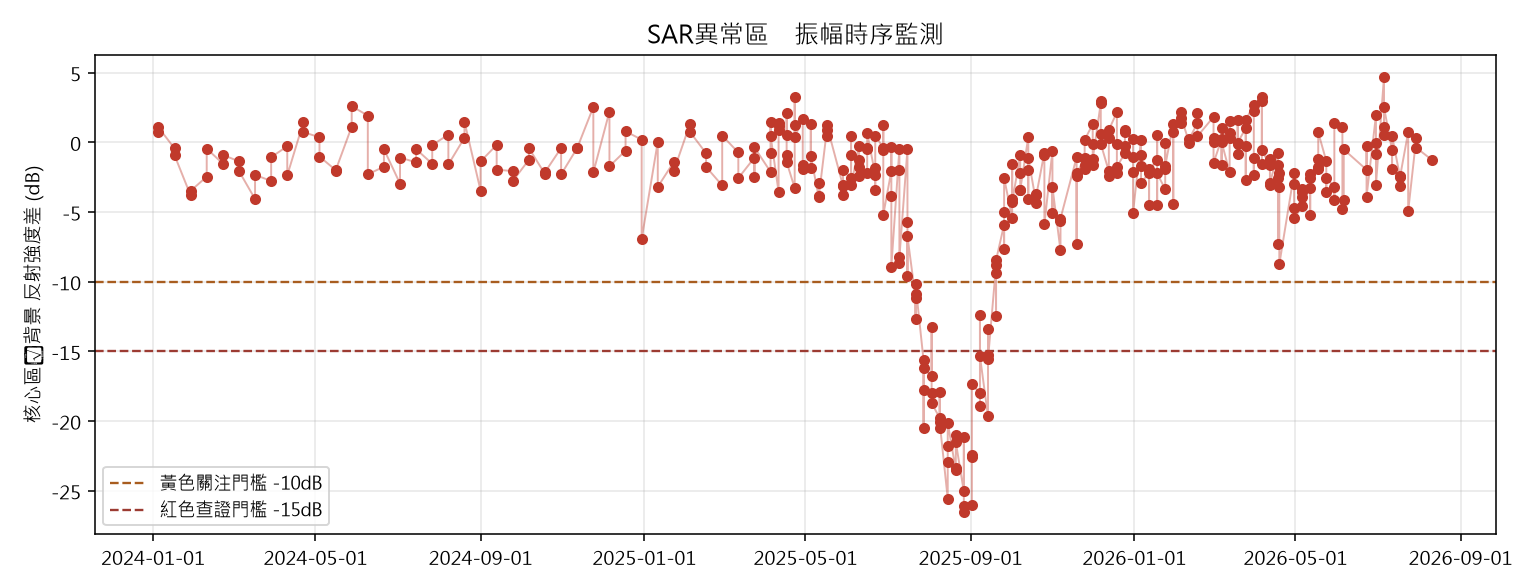
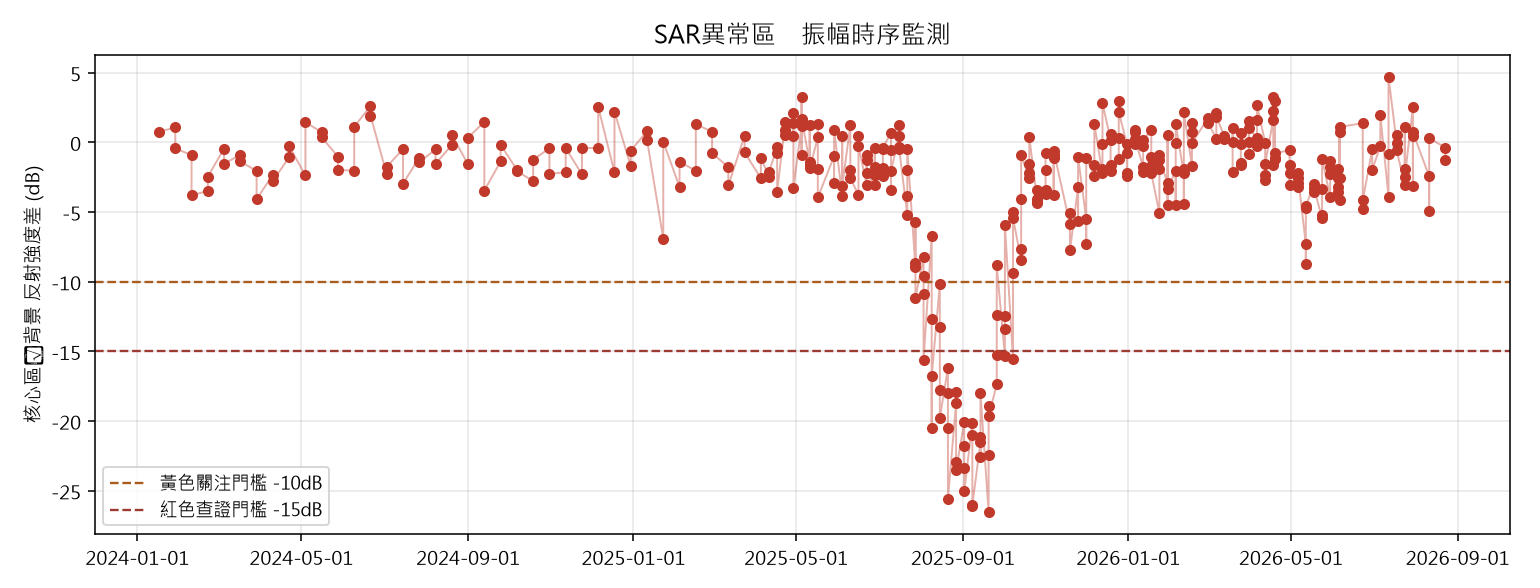
feat: add SAR freshness monitoring

diff --git a/docs/app.js b/docs/app.js
@@ -1693,6 +1693,7 @@ function renderMonitor() {
   const cardsEl = document.querySelector("#monitorCards");
   const chartsEl = document.querySelector("#monitorCharts");
   const updatedEl = document.querySelector("#monitorUpdated");
+  const freshnessEl = document.querySelector("#monitorFreshness");
   if (!cardsEl || !chartsEl) return;
   initMonitorLocalPanel();
   fetch("./monitor_status.json", { cache: "no-store" })
@@ -1703,8 +1704,26 @@ function renderMonitor() {
     .then((data) => {
       monitorPublishedPoints = data.points || [];
       monitorThresholds = data.thresholds || null;
-      if (updatedEl) updatedEl.textContent = `資料更新時間：${data.updated}（本機監測程式產生，非即時運算）`;
+      if (updatedEl) updatedEl.textContent = `程式處理時間：${data.processed_at || data.updated}`;
       updatedEl && updatedEl.classList.add("monitor-updated");
+      const freshness = data.freshness || {};
+      const ingest = data.ingest || {};
+      if (freshnessEl) {
+        const freshnessClass = ["current", "stale", "warning", "no_data"].includes(freshness.status)
+          ? freshness.status : "unknown";
+        const pairLine = freshness.latest_pair ? `最後配對：${freshness.latest_pair}` : "最後配對：無資料";
+        const acquisitionLine = freshness.latest_acquisition
+          ? `最後觀測：${freshness.latest_acquisition}（距今 ${freshness.latency_days} 天）`
+          : "最後觀測：無資料";
+        const ingestLine = ingest.message ? `<small>影像取得：${ingest.message}</small>` : "";
+        freshnessEl.className = `monitor-freshness ${freshnessClass}`;
+        freshnessEl.innerHTML = `
+          <div><span class="monitor-freshness-dot" aria-hidden="true"></span><strong>${freshness.label || "資料狀態未知"}</strong></div>
+          <p>${acquisitionLine}　｜　${pairLine}</p>
+          <p>${freshness.message || "尚未取得資料新鮮度資訊。"}</p>
+          ${ingestLine}
+        `;
+      }
       cardsEl.innerHTML = data.points.map((p) => `
         <div class="card">
           <strong>${p.name}</strong>
@@ -1777,7 +1796,7 @@ function initMonitorLocalPanel() {
   if (runBtn && !runBtn.dataset.bound) {
     runBtn.dataset.bound = "1";
     runBtn.addEventListener("click", () => {
-      callMonitorLocalApi("/run", "執行中，重新掃描新配對並更新趨勢圖，可能要一點時間...").then((data) => {
+      callMonitorLocalApi("/run", "正在搜尋新影像、接續HyP3工作並更新趨勢圖...").then((data) => {
         if (data && data.ok) renderMonitor();
       });
     });

diff --git a/docs/index.html b/docs/index.html
@@ -432,13 +432,14 @@
           </div>
           <span id="monitorUpdated" class="monitor-updated"></span>
         </div>
+        <div id="monitorFreshness" class="monitor-freshness" role="status" aria-live="polite"></div>
         <div id="monitorLocalPanel" class="toolbar-card monitor-local-panel" hidden>
           <div>
             <h3>本機分析（僅限本機開啟時可用）</h3>
-            <p>偵測到你是用 localhost 開啟這頁，可以直接觸發本機的 <code>sar_monitor.py</code> 重新分析，不用等每天08:00排程。「推送到GitHub」會讓公開網站同步更新，請先確認結果沒問題再按。</p>
+            <p>偵測到你是用 localhost 開啟這頁，可以立即搜尋最新Sentinel-1、接續HyP3工作並更新分析，不用等每天08:00排程。雲端處理若尚未完成，下次執行會自動接續，不會重複送件。</p>
           </div>
           <div class="monitor-local-actions">
-            <button id="monitorRunBtn" type="button">立即重新分析</button>
+            <button id="monitorRunBtn" type="button">檢查新影像並更新分析</button>
             <button id="monitorPushBtn" type="button" class="outline">推送到GitHub（公開網站更新）</button>
           </div>
           <pre id="monitorLocalLog" class="monitor-local-log"></pre>
@@ -492,7 +493,7 @@
         <div class="toolbar-card">
           <div>
             <h3>使用限制</h3>
-            <p>門檻只由馬太鞍溪這一個事件率定，尚未在其他案例驗證通用性；只對「積水」訊號可靠；永久水體/地形陰影可能誤報；觸發黃色或紅色後仍需人工調閱光學影像、安排UAV複查，本頁不做自動告警。</p>
+            <p>門檻只由馬太鞍溪這一個事件率定，尚未在其他案例驗證通用性；只對「積水」訊號可靠；永久水體/地形陰影可能誤報。系統會自動取得、分析與發布，但黃色或紅色仍是人工查證觸發，不能直接視為已確認災害。</p>
           </div>
         </div>
       </section>

diff --git a/docs/styles.css b/docs/styles.css
@@ -1615,6 +1615,27 @@ input, select, textarea {
   color: #70869a;
   font-size: 12px;
 }
+.monitor-freshness {
+  margin: 12px 0 16px;
+  padding: 14px 16px;
+  border: 1px solid #c7ccd3;
+  border-left-width: 5px;
+  border-radius: 10px;
+  background: #f7f8fa;
+  color: #26313c;
+}
+.monitor-freshness > div { display: flex; align-items: center; gap: 8px; }
+.monitor-freshness p { margin: 5px 0 0; line-height: 1.55; }
+.monitor-freshness small { display: block; margin-top: 6px; color: #56616d; line-height: 1.5; }
+.monitor-freshness-dot { width: 10px; height: 10px; border-radius: 50%; background: #7b8793; flex: none; }
+.monitor-freshness.current { border-left-color: #4a6741; background: #f3f8f1; }
+.monitor-freshness.current .monitor-freshness-dot { background: #4a6741; }
+.monitor-freshness.stale,
+.monitor-freshness.warning { border-left-color: #a85d1f; background: #fff7ec; }
+.monitor-freshness.stale .monitor-freshness-dot,
+.monitor-freshness.warning .monitor-freshness-dot { background: #a85d1f; }
+.monitor-freshness.no_data { border-left-color: #9c3b32; background: #fff3f2; }
+.monitor-freshness.no_data .monitor-freshness-dot { background: #9c3b32; }
 .monitor-reason {
   display: block;
   margin-top: 6px;
